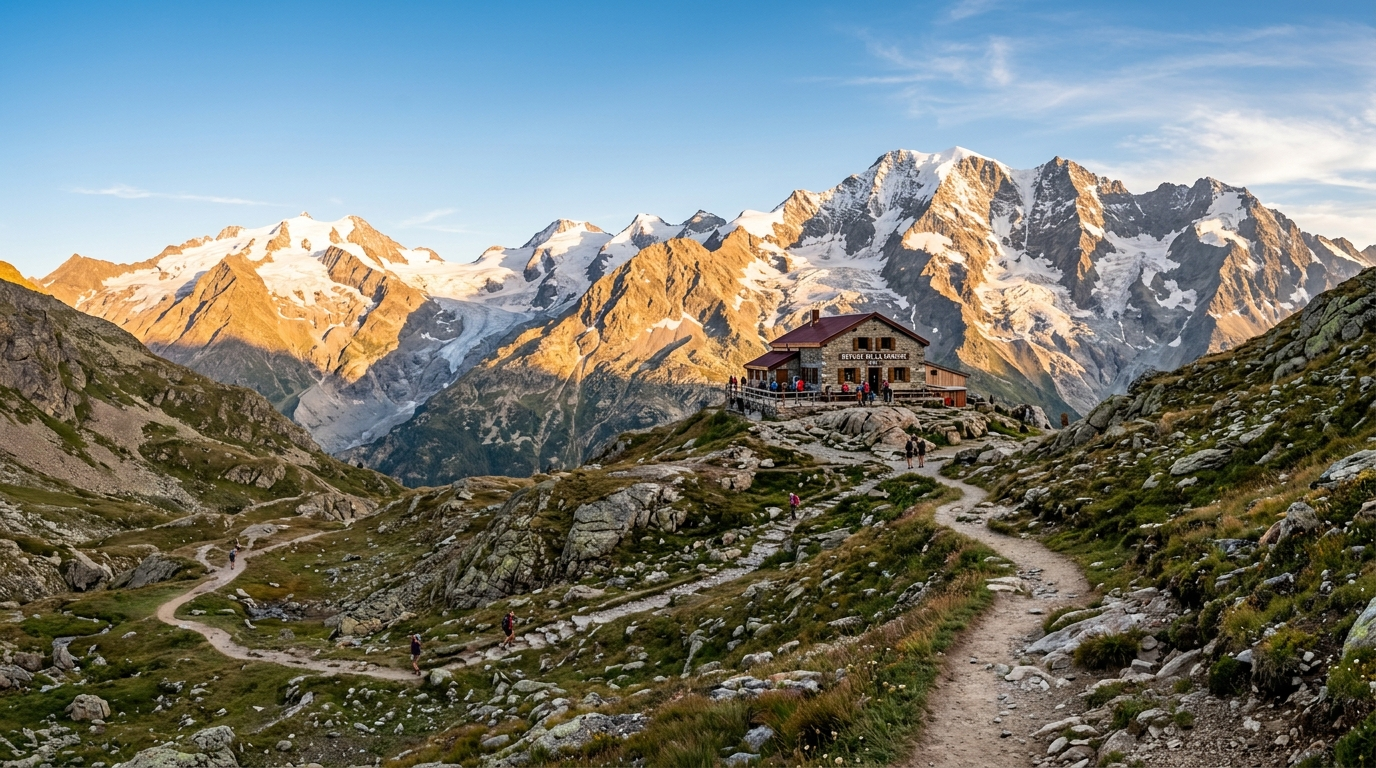
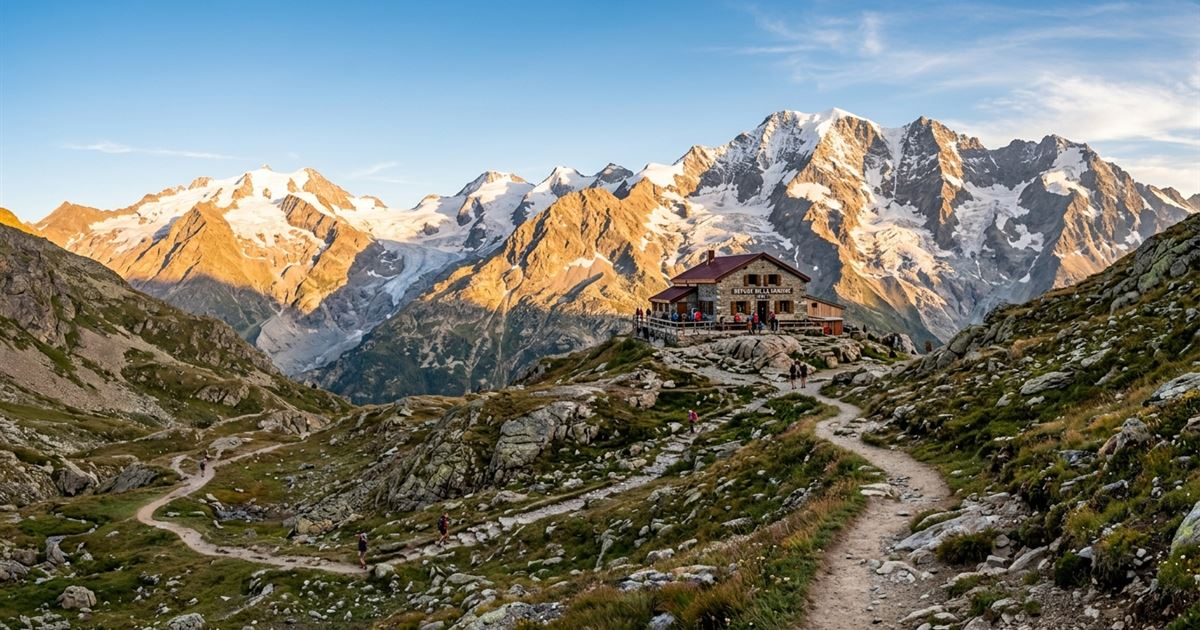
feat(seo): nettoyage des balises, sitemap, JSON-LD, og:image et H1
- og:image recadrée en 1200x630 (182 Ko) et dimensions déclarées corrigées
- sitemap réduit à la seule URL réelle (plus d'ancres #)
- robots.txt simplifié (blocs Googlebot/Bingbot fusionnés dans *)
- JSON-LD : retrait de SiteNavigationElement, BreadcrumbList à un élément et sameAs vide
- retrait des meta keywords, geo.* et ICBM, et de index/follow par défaut
- App : <main> et H1 sr-only pour que le contenu rendu ait un titre

diff --git a/index.html b/index.html
@@ -21,19 +21,9 @@
       name="description"
       content="Explorez la carte interactive des refuges et cabanes de montagne dans les Alpes : radar météo AROME Météo-France en direct, éphémérides lever &amp; coucher de soleil, accès transports sans voiture (trains, cars, navettes), sentiers et bulletins avalanche BERA."
     />
-    <meta
-      name="keywords"
-      content="refuges alpes, carte refuges alpes, radar meteo alpes, radar pluie meteo france, arome meteo france, coucher soleil refuge, lever soleil montagne, cabanes de montagne, randonnee alpes, refuges sans voiture, transports alpins, trains alpes, navettes estivales montagne, bulletin avalanche bera, sentiers waymarked trails, carte relief alpes, vanoise, ecrins, mont-blanc, belledonne, queyras"
-    />
     <meta name="author" content="Refuges des Alpes" />
-    <meta name="robots" content="index, follow, max-image-preview:large, max-snippet:-1, max-video-preview:-1" />
+    <meta name="robots" content="max-image-preview:large, max-snippet:-1, max-video-preview:-1" />
     <link rel="canonical" href="https://refugesdesalpes.fr/" />
-
-    <!-- ─── BALISES GÉOGRAPHIQUES (SEO LOCAL ALPIN) ─── -->
-    <meta name="geo.region" content="FR" />
-    <meta name="geo.placename" content="Alpes Françaises" />
-    <meta name="geo.position" content="45.9237;6.8694" />
-    <meta name="ICBM" content="45.9237, 6.8694" />
 
     <!-- ─── OPEN GRAPH (PARTAGE FACEBOOK, WHATSAPP, LINKEDIN, DISCORD) ─── -->
     <meta property="og:type" content="website" />
@@ -48,8 +38,8 @@
     <meta property="og:image" content="https://refugesdesalpes.fr/og-image.jpg" />
     <meta property="og:image:secure_url" content="https://refugesdesalpes.fr/og-image.jpg" />
     <meta property="og:image:type" content="image/jpeg" />
-    <meta property="og:image:width" content="1792" />
-    <meta property="og:image:height" content="1024" />
+    <meta property="og:image:width" content="1200" />
+    <meta property="og:image:height" content="630" />
     <meta property="og:image:alt" content="Refuge de montagne face aux sommets enneigés des Alpes" />
 
     <!-- ─── TWITTER CARD (X) ─── -->
@@ -122,30 +112,7 @@
               "@type": "ImageObject",
               "url": "https://refugesdesalpes.fr/logo.png"
             },
-            "description": "Carte interactive gratuite des refuges, cabanes, transports et sentiers dans les Alpes françaises.",
-            "sameAs": []
-          },
-          {
-            "@type": "BreadcrumbList",
-            "itemListElement": [
-              {
-                "@type": "ListItem",
-                "position": 1,
-                "name": "Accueil",
-                "item": "https://refugesdesalpes.fr/"
-              }
-            ]
-          },
-          {
-            "@type": "SiteNavigationElement",
-            "name": ["Refuges", "Transports", "Sentiers", "Webcams", "Avalanches BERA"],
-            "url": [
-              "https://refugesdesalpes.fr/",
-              "https://refugesdesalpes.fr/#transports",
-              "https://refugesdesalpes.fr/#sentiers",
-              "https://refugesdesalpes.fr/#webcams",
-              "https://refugesdesalpes.fr/#avalanches"
-            ]
+            "description": "Carte interactive gratuite des refuges, cabanes, transports et sentiers dans les Alpes françaises."
           }
         ]
       }

diff --git a/src/App.jsx b/src/App.jsx
@@ -387,7 +387,12 @@ export default function App() {
   }, [])
 
   return (
-    <div className="app-viewport relative w-screen overflow-hidden">
+    <main className="app-viewport relative w-screen overflow-hidden">
+      {!selected && (
+        <h1 className="sr-only">
+          Refuges des Alpes : carte interactive des refuges et cabanes de montagne, radar météo, transports et sentiers
+        </h1>
+      )}
       <MapContainer
         center={[45.9237, 6.8694]}
         zoom={11}
@@ -684,6 +689,6 @@ export default function App() {
           )}
         </ErrorBoundary>
       )}
-    </div>
+    </main>
   )
 }
